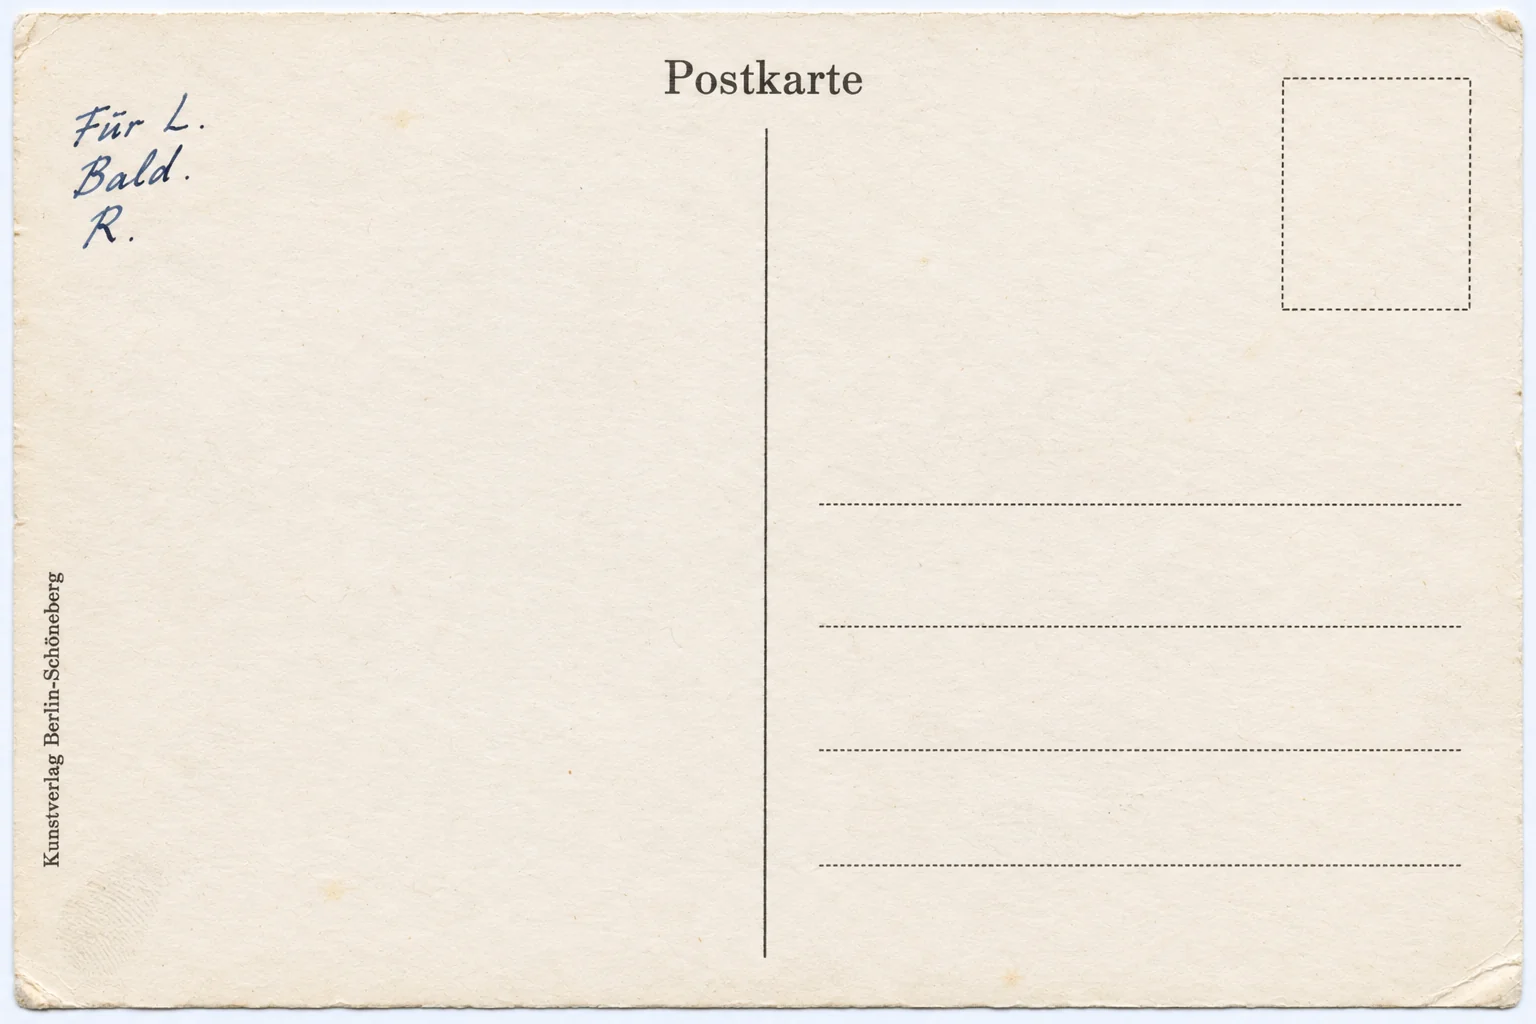
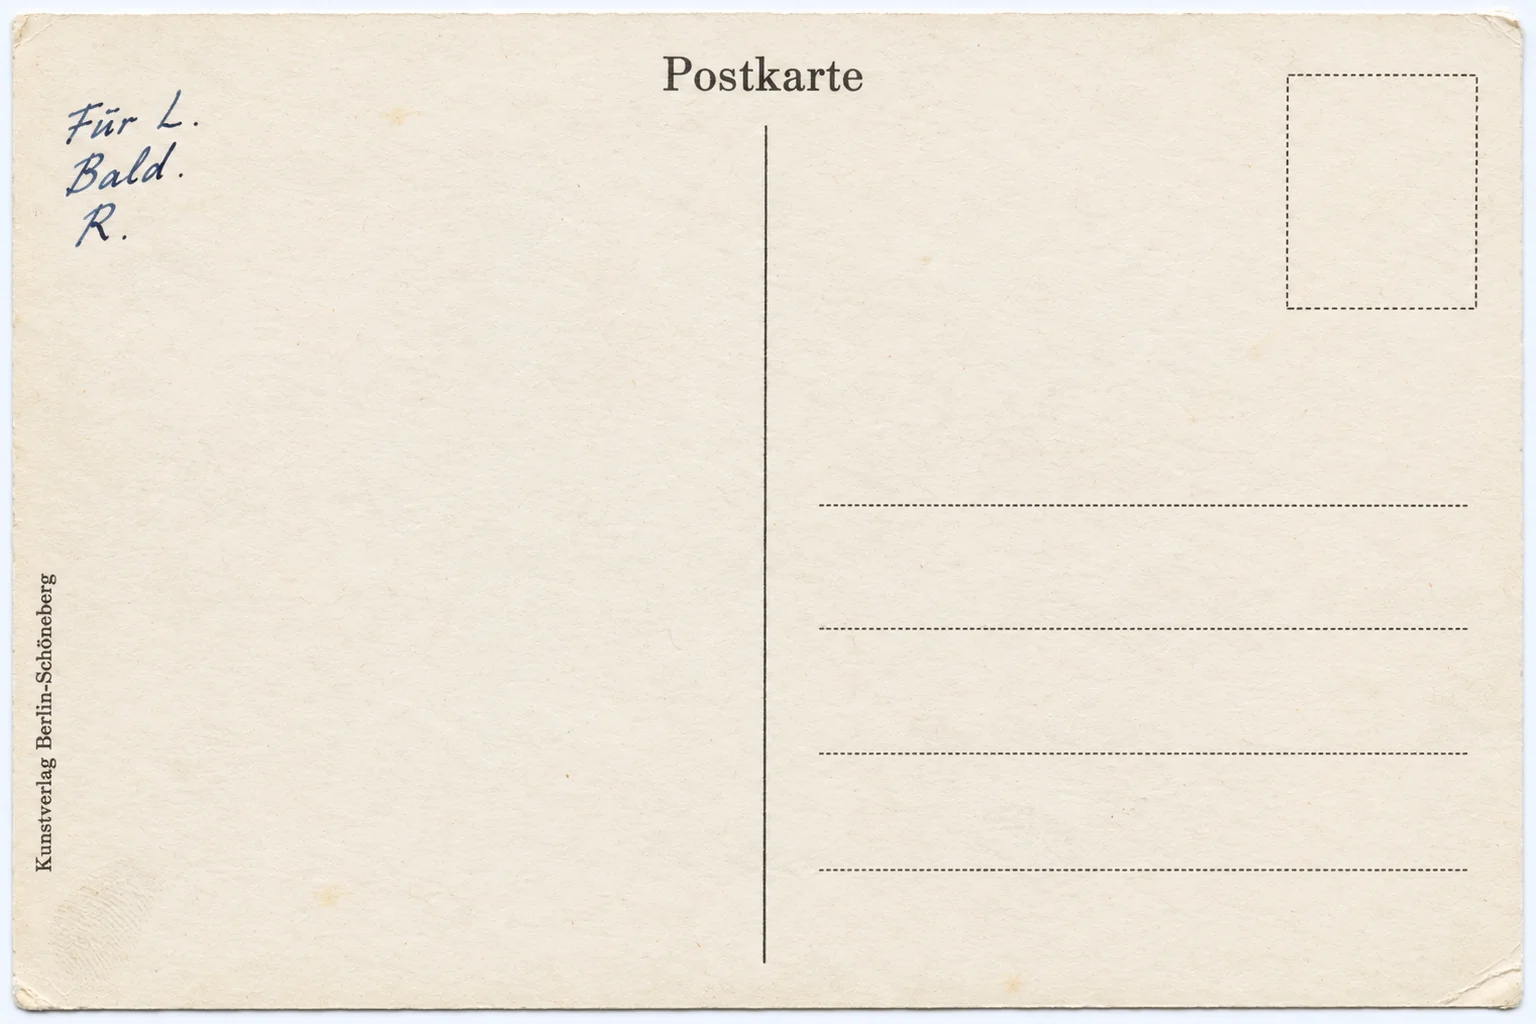
Rückseiten für alle Ansichtskarten
Die drei Dorfkarten haben jetzt Daniels Rückseite (Atelier Hölzl, Miesbach).
Jede Rückseite trägt den gespiegelten Umriss ihrer Vorderseite und deren
Papierton, auch die der Kurfürstendamm-Karte. Druckbogen jetzt vier Seiten,
beidseitig.

Claude-Session: https://claude.ai/code/session_012fbrn627buy2UjJ5cxeQd9

diff --git a/data/requisiten.js b/data/requisiten.js
@@ -47,10 +47,15 @@ window.LAHNREIT_REQUISITEN = [
     "id": "ak-mandlkopf",
     "titel": "Lahnreit gegen Mandlkopf",
     "wann": "Liegt beim Kramer im Regal (D8). Gut als Stimmung, schon beim Ankommen auf dem Tisch.",
-    "druck": "festen Karton, Kartenbogen Seite 3",
-    "hinweis": "Eine farbige Ansichtskarte von 1955, wie sie der Kramer an die Sommerfrischler verkauft. Zum Drucken: Kartenbogen in requisiten/ansichtskarten, auf festen Karton, an den Marken ausschneiden.",
+    "druck": "festen Karton, Kartenbogen Seite 3 und 4 beidseitig",
+    "hinweis": "Eine farbige Ansichtskarte von 1955, wie sie der Kramer an die Sommerfrischler verkauft. Auf der Rückseite steht nur der Verlag, Atelier Hölzl in Miesbach. Zum Drucken: Kartenbogen in requisiten/ansichtskarten, auf festen Karton, beidseitig mit Wenden an der langen Kante, an den Marken ausschneiden.",
     "bilder": [
-     "requisiten/ansichtskarten/mandlkopf.webp"
+     "requisiten/ansichtskarten/mandlkopf.webp",
+     "requisiten/ansichtskarten/mandlkopf-rueckseite.webp"
+    ],
+    "unter": [
+     "Vorderseite",
+     "Rückseite"
     ],
     "szenen": [],
     "orte": [
@@ -62,10 +67,15 @@ window.LAHNREIT_REQUISITEN = [
     "id": "ak-dorf",
     "titel": "Sommerfrische Lahnreit",
     "wann": "Liegt beim Kramer im Regal (D8). Gut als Stimmung, schon beim Ankommen auf dem Tisch.",
-    "druck": "festen Karton, Kartenbogen Seite 3",
-    "hinweis": "Eine farbige Ansichtskarte von 1955, wie sie der Kramer an die Sommerfrischler verkauft. Zum Drucken: Kartenbogen in requisiten/ansichtskarten, auf festen Karton, an den Marken ausschneiden.",
+    "druck": "festen Karton, Kartenbogen Seite 3 und 4 beidseitig",
+    "hinweis": "Eine farbige Ansichtskarte von 1955, wie sie der Kramer an die Sommerfrischler verkauft. Auf der Rückseite steht nur der Verlag, Atelier Hölzl in Miesbach. Zum Drucken: Kartenbogen in requisiten/ansichtskarten, auf festen Karton, beidseitig mit Wenden an der langen Kante, an den Marken ausschneiden.",
     "bilder": [
-     "requisiten/ansichtskarten/dorf.webp"
+     "requisiten/ansichtskarten/dorf.webp",
+     "requisiten/ansichtskarten/dorf-rueckseite.webp"
+    ],
+    "unter": [
+     "Vorderseite",
+     "Rückseite"
     ],
     "szenen": [],
     "orte": [
@@ -77,10 +87,15 @@ window.LAHNREIT_REQUISITEN = [
     "id": "ak-lahnwirt",
     "titel": "Gasthof Beim Lahnwirt",
     "wann": "Liegt beim Kramer im Regal (D8). Gut als Stimmung, schon beim Ankommen auf dem Tisch.",
-    "druck": "festen Karton, Kartenbogen Seite 1",
-    "hinweis": "Eine farbige Ansichtskarte von 1955, wie sie der Kramer an die Sommerfrischler verkauft. Zum Drucken: Kartenbogen in requisiten/ansichtskarten, auf festen Karton, an den Marken ausschneiden.",
+    "druck": "festen Karton, Kartenbogen Seite 1 und 2 beidseitig",
+    "hinweis": "Eine farbige Ansichtskarte von 1955, wie sie der Kramer an die Sommerfrischler verkauft. Auf der Rückseite steht nur der Verlag, Atelier Hölzl in Miesbach. Zum Drucken: Kartenbogen in requisiten/ansichtskarten, auf festen Karton, beidseitig mit Wenden an der langen Kante, an den Marken ausschneiden.",
     "bilder": [
-     "requisiten/ansichtskarten/lahnwirt.webp"
+     "requisiten/ansichtskarten/lahnwirt.webp",
+     "requisiten/ansichtskarten/lahnwirt-rueckseite.webp"
+    ],
+    "unter": [
+     "Vorderseite",
+     "Rückseite"
     ],
     "szenen": [],
     "orte": [

diff --git a/README.md b/README.md
@@ -29,7 +29,7 @@ Oben stehen nur Stichpunkte. Wer den ganzen Text braucht, tippt den Stichpunkt a
 - `bilder/szenen/` Szenenbilder, benannt nach dem Code aus dem Reiter Bildprompts, also `S7a.jpg` oder `S23.png`. Fehlt ein Bild, zeigt die App dessen Beschreibung.
 - `modelle/` die 3D-Figuren: die ZIPs mit dem Original (OBJ), daraus verkleinert je eine `.glb` und eine `.js` mit demselben Inhalt, damit die App sie auch ohne Server laden kann. `data/modelle.js` sagt, welche Figur und welches Porträt zu wem gehört. `lib/` enthält three.js (r147) zum Anzeigen.
 - `requisiten/karten/`, `requisiten/handouts/` die Bilder für den Bereich Requisiten. Die Handouts sind aus den Druckvorlagen geschnitten, ohne die grauen Hinweise für die Spielleitung.
-- `requisiten/ansichtskarten/` die vier Ansichtskarten als `.webp`: `mandlkopf`, `dorf`, `lahnwirt`, `kudamm` und dazu `kudamm-rueckseite` mit Lindners »Für L. Bald. R.«.
+- `requisiten/ansichtskarten/` die vier Ansichtskarten als `.webp`: `mandlkopf`, `dorf`, `lahnwirt`, `kudamm`, jede mit ihrer Rückseite (`…-rueckseite`). Die Rückseiten tragen den gespiegelten Umriss ihrer Vorderseite. Auf der Kurfürstendamm-Karte steht Lindners »Für L. Bald. R.«.
 - `data/requisiten.js` welche Requisiten es gibt, wann man sie herausgibt und in welchen Szenen und Orten sie vorkommen.
 - `quellen/kurz/` die Stichpunkte der obersten Ebene, eine Datei pro Teil. `python3 tools/kurz.py` prüft, ob sie noch zum Handbuch passen, und schreibt `data/kurz.js`.
 - `quellen/handbuch/` die Reiter des Spielleiterhandbuchs als Markdown.
